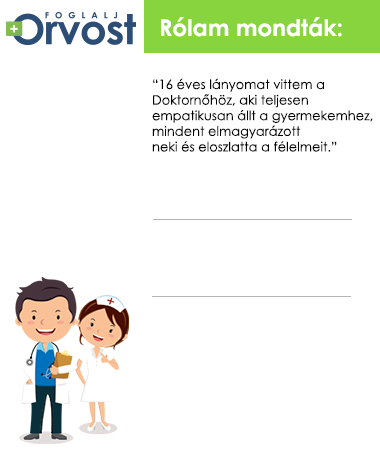
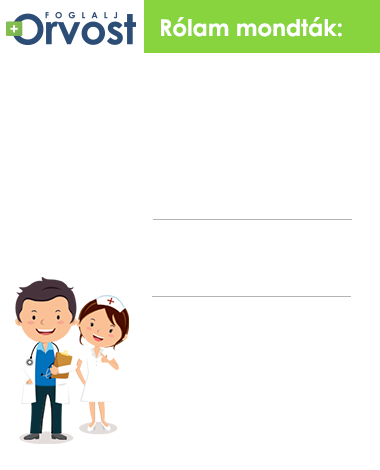
idezet fix

Changed region(s): [[0.4053, 0.1489, 0.9842, 0.3277]]

diff --git a/public_html/ertekelo620x330/ertekelo620x330.html b/public_html/ertekelo620x330/ertekelo620x330.html
@@ -106,10 +106,33 @@
             .link:hover {
                 text-decoration: underline;
             }
+            .text {
+                display: block;
+                width: 225px;
+                color: #000;
+                font-size: 13px;
+                line-height: 16px;
+                font-family: "Century Gothic Regular", helvetica, ariel;
+                position: absolute;
+            }
+            .text-1 {
+                top: 55px;
+                left: 155px;
+            }
+            .text-2 {
+                top: 55px;
+                left: 405px;
+            }
+            
         </style>
     </head>
     <body>
         <div class="ertekelo-wrapper">
+            <div class="text text-1">“16 éves lányomat vittem a 
+                Doktornőhöz, aki teljesen 
+                empatikusan állt a gyermekemhez, 
+                mindent elmagyarázott 
+                neki és eloszlatta a félelmeit.”</div>
             <div class="name name-1">Zsuzsanna , 2015 január</div>
             <div class="star-holder star-holder-1">
                 <span class="star"></span>
@@ -126,6 +149,7 @@
                 <span class="star"></span>
                 <span class="star"></span>
             </div>
+            <div class="text text-2">“Barakonyi Doktornő türelme, hozzáállása és profizmusa.”</div>
             <div class="name name-3">Judit , 2015 március</div>
             <div class="star-holder star-holder-3">
                 <span class="star"></span>

diff --git a/public_html/ertekelo980x190/ertekelo980x190.html b/public_html/ertekelo980x190/ertekelo980x190.html
@@ -106,10 +106,33 @@
             .link:hover {
                 text-decoration: underline;
             }
+            .text {
+                display: block;
+                width: 225px;
+                color: #000;
+                font-size: 13px;
+                line-height: 16px;
+                font-family: "Century Gothic Regular", helvetica, ariel;
+                position: absolute;
+            }
+            .text-1 {
+                top: 50px;
+                left: 165px;
+            }
+            .text-2 {
+                top: 50px;
+                left: 415px;
+            }
+
         </style>
     </head>
     <body>
         <div class="ertekelo-wrapper">
+            <div class="text text-1">“16 éves lányomat vittem a 
+                Doktornőhöz, aki teljesen 
+                empatikusan állt a gyermekemhez, 
+                mindent elmagyarázott 
+                neki és eloszlatta a félelmeit.”</div>
             <div class="name name-1">Zsuzsanna , 2015 január</div>
             <div class="star-holder star-holder-1">
                 <span class="star"></span>
@@ -118,6 +141,7 @@
                 <span class="star"></span>
                 <span class="star"></span>
             </div>
+            <div class="text text-2">“Barakonyi Doktornő türelme, hozzáállása és profizmusa.”</div>
             <div class="name name-2">Judit , 2015 március</div>
             <div class="star-holder star-holder-2">
                 <span class="star"></span>

diff --git a/public_html/ertekelo380x470/ertekelo380x470.html b/public_html/ertekelo380x470/ertekelo380x470.html
@@ -98,10 +98,38 @@
             .link:hover {
                 text-decoration: underline;
             }
+            .text {
+                display: block;
+                width: 225px;
+                color: #000;
+                font-size: 13px;
+                line-height: 16px;
+                font-family: "Century Gothic Regular", helvetica, ariel;
+                position: absolute;
+            }
+            .text-1 {
+                top: 70px;
+                left: 150px;
+            }
+            .ertekelo-container {
+                display: block;
+                margin-left: 145px;
+            }
+            .ertekes {
+                border-bottom: 1px solid #b4b4b4;
+            }
+            .noborder {
+                border: none;
+            }
         </style>
     </head>
     <body>
         <div class="ertekelo-wrapper">
+            <div class="text text-1">“16 éves lányomat vittem a 
+                Doktornőhöz, aki teljesen 
+                empatikusan állt a gyermekemhez, 
+                mindent elmagyarázott 
+                neki és eloszlatta a félelmeit.”</div>
             <div class="name name-1">Zsuzsanna , 2015 január</div>
             <div class="star-holder star-holder-1">
                 <span class="star"></span>

diff --git a/public_html/ertekelo250x540/ertekelo250x540.html b/public_html/ertekelo250x540/ertekelo250x540.html
@@ -98,10 +98,29 @@
             .link:hover {
                 text-decoration: underline;
             }
+            .text {
+                display: block;
+                width: 225px;
+                color: #000;
+                font-size: 13px;
+                line-height: 16px;
+                font-family: "Century Gothic Regular", helvetica, ariel;
+                position: absolute;
+            }
+            .text-1 {
+                top: 150px;
+                left: 20px;
+            }
+           
         </style>
     </head>
     <body>
         <div class="ertekelo-wrapper">
+            <div class="text text-1">“16 éves lányomat vittem a 
+                Doktornőhöz, aki teljesen 
+                empatikusan állt a gyermekemhez, 
+                mindent elmagyarázott 
+                neki és eloszlatta a félelmeit.”</div>
             <div class="name name-1">Zsuzsanna , 2015 január</div>
             <div class="star-holder star-holder-1">
                 <span class="star"></span>
